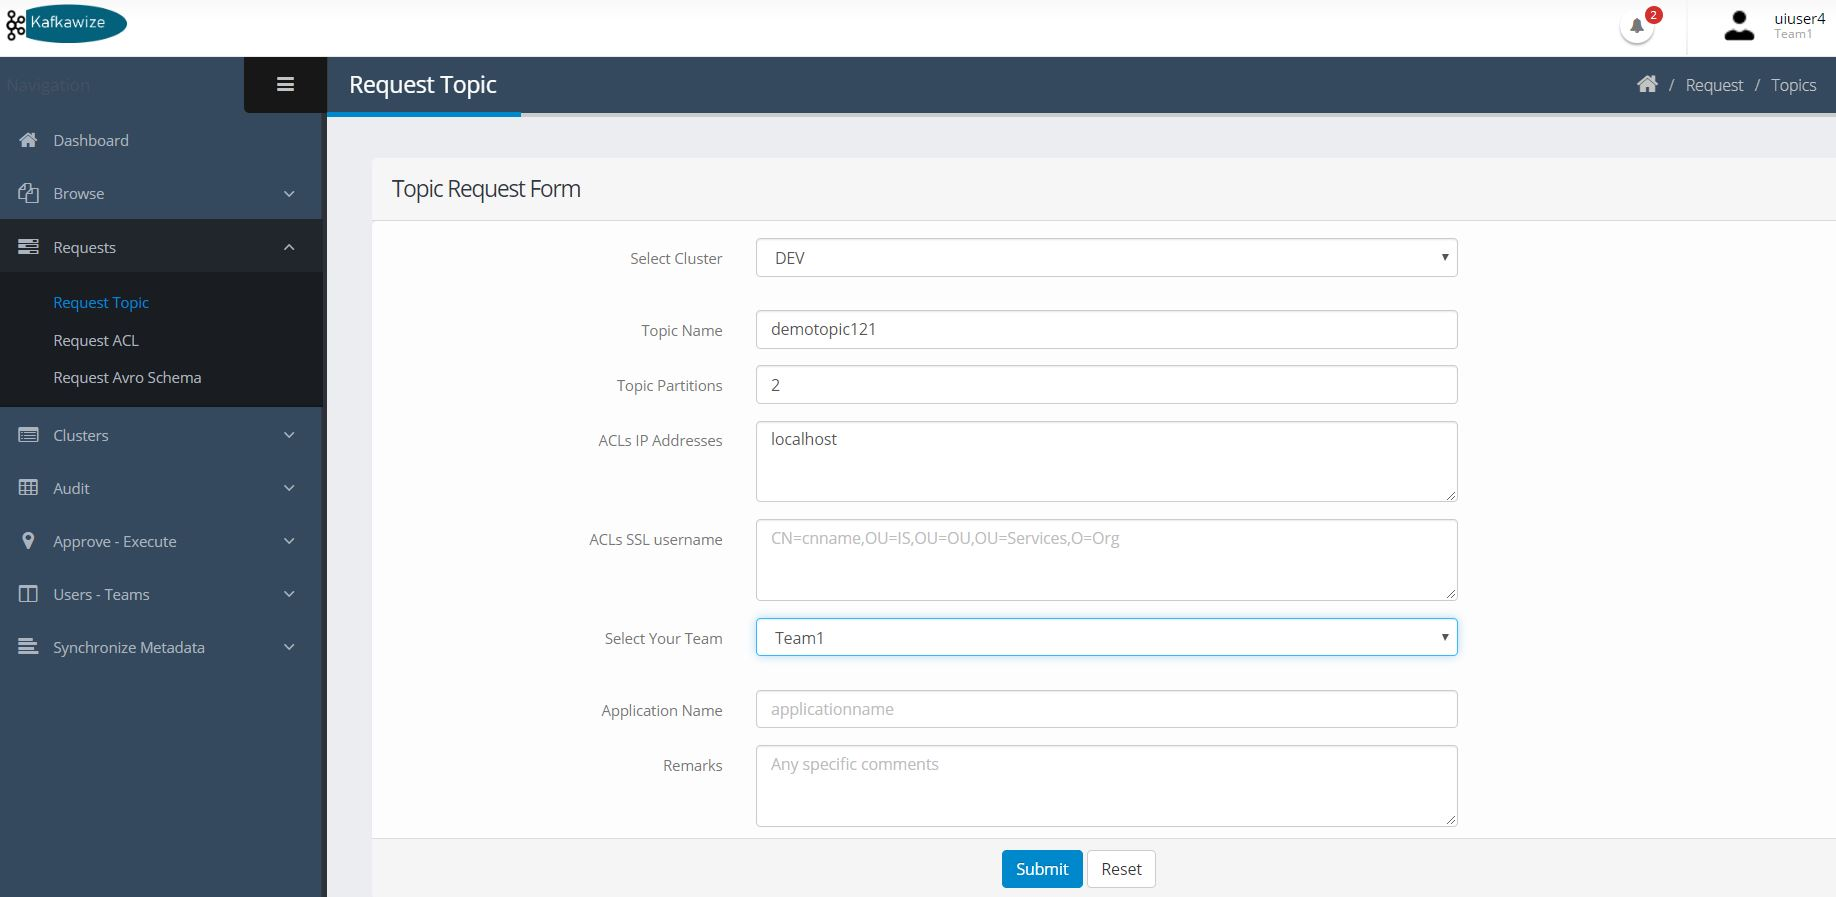
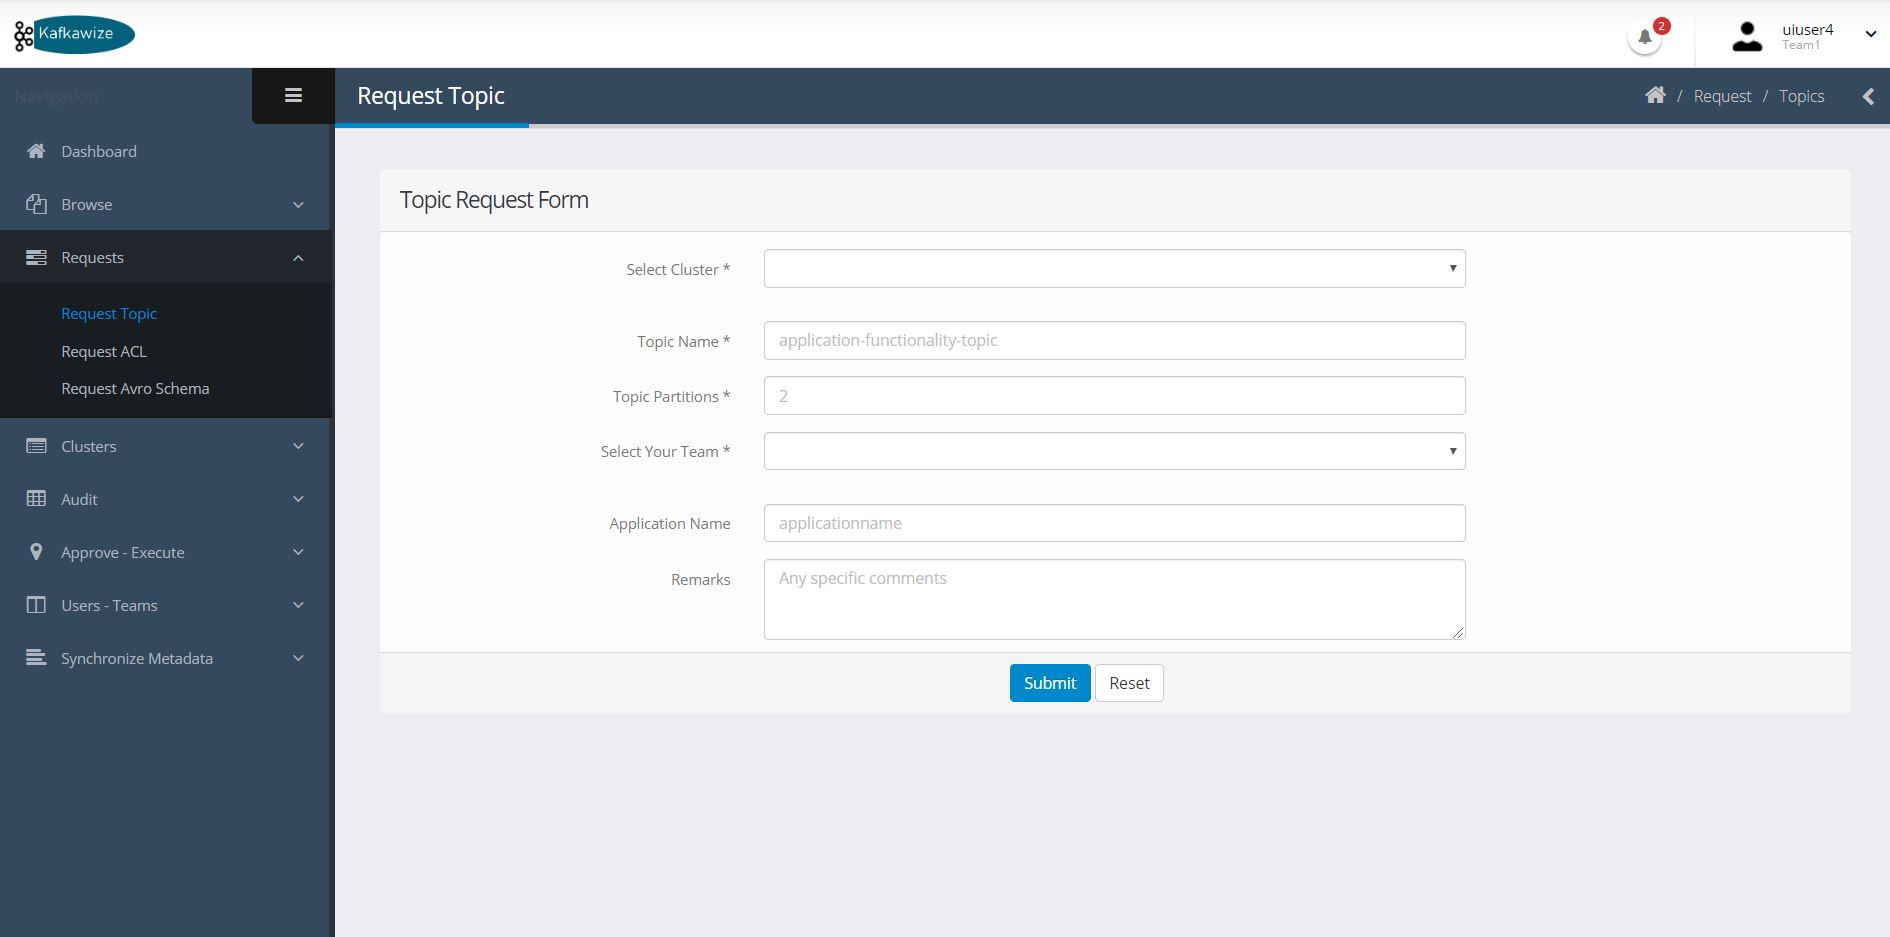
Bug fixes, request topic form, code enhancements

diff --git a/kafkawize-web/src/main/resources/templates/requestTopics.html b/kafkawize-web/src/main/resources/templates/requestTopics.html
@@ -376,7 +376,7 @@
 							<div class="panel-body" ng-init="getAuth();getEnvs();loadTeams();">
 
 									<div class="form-group">
-										<label class="col-md-3 control-label">Select Cluster</label>
+										<label class="col-md-3 control-label">Select Cluster *</label>
 										<div class="col-md-6">
 											<select class="form-control mb-md" ng-model="addTopic.envName" ng-options="env as env.name for env in allenvs">
 
@@ -386,35 +386,35 @@
 
 
 								<div class="form-group">
-									<label class="col-md-3 control-label">Topic Name</label>
+									<label class="col-md-3 control-label">Topic Name *</label>
 									<div class="col-md-6">
 										<input ng-model="addTopic.topicname" required type="text" placeholder="application-functionality-topic" title="" data-toggle="tooltip" data-trigger="hover" class="form-control" data-original-title="Enter the topic name">
 									</div>
 								</div>
 
 								<div class="form-group">
-									<label class="col-md-3 control-label">Topic Partitions</label>
+									<label class="col-md-3 control-label">Topic Partitions *</label>
 									<div class="col-md-6">
 										<input ng-model="addTopic.topicpartitions" required type="text" placeholder="2" title="" data-toggle="tooltip" data-trigger="hover" class="form-control" data-original-title="Enter a number for topic partitions">
 									</div>
 								</div>
 
-								<div class="form-group">
-									<label class="col-md-3 control-label">ACLs IP Addresses (Producer)</label>
-									<div class="col-md-6">
-										<textarea placeholder="192.168.12.104" title="" data-toggle="tooltip" data-trigger="hover" class="form-control" data-original-title="Enter the IP Addresses of Producers" ng-model="addTopic.acl_ip" rows="3"></textarea>
-									</div>
-								</div>
+								<!--<div class="form-group">-->
+									<!--<label class="col-md-3 control-label">ACLs IP Addresses (Producer)</label>-->
+									<!--<div class="col-md-6">-->
+										<!--<textarea placeholder="192.168.12.104" title="" data-toggle="tooltip" data-trigger="hover" class="form-control" data-original-title="Enter the IP Addresses of Producers" ng-model="addTopic.acl_ip" rows="3"></textarea>-->
+									<!--</div>-->
+								<!--</div>-->
+
+								<!--<div class="form-group">-->
+									<!--<label class="col-md-3 control-label">ACLs Ssl DN (Producer)</label>-->
+									<!--<div class="col-md-6">-->
+										<!--<textarea placeholder="CN=cnname,OU=IS,OU=OU,OU=Services,O=Org" title="" data-toggle="tooltip" data-trigger="hover" class="form-control" data-original-title="Enter the Ssl-CN certificate entry" ng-model="addTopic.acl_ssl" rows="3"></textarea>-->
+									<!--</div>-->
+								<!--</div>-->
 
 								<div class="form-group">
-									<label class="col-md-3 control-label">ACLs SSL username</label>
-									<div class="col-md-6">
-										<textarea placeholder="CN=cnname,OU=IS,OU=OU,OU=Services,O=Org" title="" data-toggle="tooltip" data-trigger="hover" class="form-control" data-original-title="Enter the Ssl-CN certificate entry" ng-model="addTopic.acl_ssl" rows="3"></textarea>
-									</div>
-								</div>
-
-								<div class="form-group">
-									<label class="col-md-3 control-label">Select Your Team</label>
+									<label class="col-md-3 control-label">Select Your Team *</label>
 									<div class="col-md-6">
 										<select class="form-control mb-md" ng-model="addTopic.team" ng-options="team as team.teamname for team in allTeams">
 
@@ -425,7 +425,7 @@
 								<div class="form-group">
 									<label class="col-md-3 control-label">Application Name</label>
 									<div class="col-md-6">
-										<input ng-model="addTopic.app" required type="text" placeholder="applicationname" title="" data-toggle="tooltip" data-trigger="hover" class="form-control" data-original-title="Enter application name">
+										<input ng-model="addTopic.app" type="text" placeholder="applicationname" title="" data-toggle="tooltip" data-trigger="hover" class="form-control" data-original-title="Enter application name">
 									</div>
 								</div>
 

diff --git a/kafkawize-web/src/main/resources/static/js/requestTopics.js b/kafkawize-web/src/main/resources/static/js/requestTopics.js
@@ -24,13 +24,19 @@ app.controller("requestTopicsCtrl", function($scope, $http, $location, $window) 
                 alert("Please fill in topic partitions");
                 return;
             }
-            if(($scope.addTopic.acl_ip !=null && $scope.addTopic.acl_ip.length>0) ||
-             ($scope.addTopic.acl_ssl !=null && $scope.addTopic.acl_ssl.length>0)){}
-             else
-             {
-                alert("Please fill in a valid IP address or SSL-CN Name of the Producer client");
+
+            if(isNaN($scope.addTopic.topicpartitions)){
+                alert("Please fill in a valid number for partitions for topic");
                 return;
-             }
+            }
+
+//            if(($scope.addTopic.acl_ip !=null && $scope.addTopic.acl_ip.length>0) ||
+//             ($scope.addTopic.acl_ssl !=null && $scope.addTopic.acl_ssl.length>0)){}
+//             else
+//             {
+//                alert("Please fill in a valid IP address or SSL-CN Name of the Producer client");
+//                return;
+//             }
 
              if(!$scope.addTopic.team)
               {
@@ -44,16 +50,13 @@ app.controller("requestTopicsCtrl", function($scope, $http, $location, $window) 
             serviceInput['teamname'] = $scope.addTopic.team.teamname;
             serviceInput['appname'] = $scope.addTopic.app;
             serviceInput['remarks'] = $scope.addTopic.remarks;
-            serviceInput['acl_ip'] = $scope.addTopic.acl_ip;
-            serviceInput['acl_ssl'] = $scope.addTopic.acl_ssl;
 
-            if (!window.confirm("Are you sure, you would like to request the topic : "
-                +  $scope.addTopic.topicname  +
+            if (!window.confirm("Are you sure, you would like to request a topic ?"+
+                "\nTopic : " +  $scope.addTopic.topicname  +
                 "\nPartitions : " + $scope.addTopic.topicpartitions +
                 "\nEnv : " + $scope.addTopic.envName.name +
-                "\nTeam :" + $scope.addTopic.team.teamname +
-                "\nApp :" + $scope.addTopic.app +
-                "\nAcl :" + $scope.addTopic.acl_ip +" \nAcl SSL:"+ $scope.addTopic.acl_ssl
+                "\nTeam : " + $scope.addTopic.team.teamname +
+                "\nApp : " + $scope.addTopic.app
                 )) {
                 return;
             }
@@ -75,6 +78,7 @@ app.controller("requestTopicsCtrl", function($scope, $http, $location, $window) 
             );
 
         };
+
 
         $scope.getEnvs = function() {
 

diff --git a/kafkawize-web/src/main/resources/templates/execTopics.html b/kafkawize-web/src/main/resources/templates/execTopics.html
@@ -376,8 +376,8 @@
 											<th>Replication Factor</th>
 											<th>Cluster</th>
 											<th>Requestor</th>
-											<th>Acl IP(Producer)</th>
-											<th>Acl SSL</th>
+											<!--<th>Acl IP(Producer)</th>-->
+											<!--<th>Acl SSL</th>-->
 											<!--<th>Application</th>-->
 											<th>Team</th>
 											<!--<th>Remarks</th>-->
@@ -394,8 +394,8 @@
 											<td>{{ topicRequest.replicationfactor }}</td>
 											<td>{{ topicRequest.environment }}</td>
 											<td>{{ topicRequest.username }}</td>
-											<td>{{ topicRequest.acl_ip }}</td>
-											<td>{{ topicRequest.acl_ssl }}</td>
+											<!--<td>{{ topicRequest.acl_ip }}</td>-->
+											<!--<td>{{ topicRequest.acl_ssl }}</td>-->
 											<!--<td>{{ topicRequest.appname }}</td>-->
 											<td>{{ topicRequest.teamname }}</td>
 											<!--<td>{{ topicRequest.remarks }}</td>-->

diff --git a/kafkawize-web/src/main/resources/templates/requestAcls.html b/kafkawize-web/src/main/resources/templates/requestAcls.html
@@ -410,7 +410,7 @@
 								</div>
 
 								<div class="form-group">
-									<label class="col-md-3 control-label">Consumer Group</label>
+									<label class="col-md-3 control-label">Consumer Group (Only for consumers)</label>
 									<div class="col-md-6">
 										<input ng-model="addAcl.consumergroup" type="text" placeholder="applicationconsumergroup" title="" data-toggle="tooltip" data-trigger="hover" class="form-control" data-original-title="Required if ACL type is Consumer">
 									</div>

diff --git a/kafkawize-web/src/main/resources/templates/pcTopics.html b/kafkawize-web/src/main/resources/templates/pcTopics.html
@@ -389,7 +389,7 @@
 									<thead>
 										<tr>
 											<th>Topic</th>
-											<th>Producer Teams</th>
+											<th>Producer/Owner Teams</th>
 											<th>Consumer Teams</th>
 										</tr>
 									</thead>

diff --git a/kafkawize-web/src/main/java/com/kafkamgt/uiapi/service/TopicControllerService.java b/kafkawize-web/src/main/java/com/kafkamgt/uiapi/service/TopicControllerService.java
@@ -41,7 +41,7 @@ public class TopicControllerService {
     String uriGetTopics = "/topics/getTopics/";
 
     @Autowired
-    private ManageTopics createTopicHelper;
+    private ManageTopics manageTopics;
 
     @Autowired
     private UtilService utilService;
@@ -60,6 +60,21 @@ public class TopicControllerService {
         String defPartns = springEnvProps.getProperty("kafka." + envSelected + ".default.partitions");
         String defMaxPartns = springEnvProps.getProperty("kafka." + envSelected + ".default.maxpartitions");
         String defaultRf = springEnvProps.getProperty("kafka." + envSelected + ".default.replicationfactor");
+//        String ipAddress = topicRequestReq.getAcl_ip();
+//
+//        if(ipAddress!=null && ipAddress.length()>0) {
+//            String IPADDRESS_PATTERN =
+//                    "^([01]?\\d\\d?|2[0-4]\\d|25[0-5])\\." +
+//                            "([01]?\\d\\d?|2[0-4]\\d|25[0-5])\\." +
+//                            "([01]?\\d\\d?|2[0-4]\\d|25[0-5])\\." +
+//                            "([01]?\\d\\d?|2[0-4]\\d|25[0-5])$";
+//
+//            Pattern pattern = Pattern.compile(IPADDRESS_PATTERN);
+//            Matcher matcher = pattern.matcher(ipAddress);
+//            if (!matcher.matches()) {
+//                return "{\"result\":\"Error : Invalid IP Address in the request.\"}";
+//            }
+//        }
 
         if(defPartns==null)
             defPartns="1";
@@ -87,7 +102,7 @@ public class TopicControllerService {
             topicRequestReq.setTopicpartitions(defPartns);
         }
 
-        String execRes = createTopicHelper.requestForTopic(topicRequestReq);
+        String execRes = manageTopics.requestForTopic(topicRequestReq);
 
         String topicaddResult = "{\"result\":\""+execRes+"\"}";
         return topicaddResult;
@@ -124,13 +139,13 @@ public class TopicControllerService {
                 listTopics.add(t);
             }
         }
-        String execRes = createTopicHelper.addToSynctopics(listTopics);
+        String execRes = manageTopics.addToSynctopics(listTopics);
 
         return "{\"result\":\""+execRes+"\"}";
     }
 
     public List<PCStream> getTopicStreams(String envSelected, String pageNo, String topicNameSearch) {
-        List<PCStream> pcList = createTopicHelper.selectTopicStreams(envSelected);
+        List<PCStream> pcList = manageTopics.selectTopicStreams(envSelected);
 
         if(topicNameSearch != null)
             topicNameSearch = topicNameSearch.trim();
@@ -177,16 +192,16 @@ public class TopicControllerService {
 
     public List<TopicRequest> getTopicRequests() {
 
-        return createTopicHelper.getAllTopicRequests(utilService.getUserName());
+        return manageTopics.getAllTopicRequests(utilService.getUserName());
     }
 
     public Topic getTopicTeam(String topicName, String env) {
 
-        return createTopicHelper.getTopicTeam(topicName, env);
+        return manageTopics.getTopicTeam(topicName, env);
     }
 
     public List<TopicRequest> getCreatedTopicRequests() {
-       return createTopicHelper.getCreatedTopicRequests(utilService.getUserName());
+       return manageTopics.getCreatedTopicRequests(utilService.getUserName());
     }
 
     public String deleteTopicRequests(String topicName) {
@@ -195,7 +210,7 @@ public class TopicControllerService {
         topicName = strTkr.nextToken();
         String env = strTkr.nextToken();
 
-        String deleteTopicReqStatus = createTopicHelper.deleteTopicRequest(topicName,env);
+        String deleteTopicReqStatus = manageTopics.deleteTopicRequest(topicName,env);
 
         return "{\"result\":\""+deleteTopicReqStatus+"\"}";
     }
@@ -206,21 +221,21 @@ public class TopicControllerService {
         topicName = strTkr.nextToken();
         String env = strTkr.nextToken();
 
-        TopicRequest topicRequest = createTopicHelper.selectTopicRequestsForTopic(topicName, env);
+        TopicRequest topicRequest = manageTopics.selectTopicRequestsForTopic(topicName, env);
 
         ResponseEntity<String> response = clusterApiService.approveTopicRequests(topicName,topicRequest);
 
         String updateTopicReqStatus = response.getBody();
 
         if(response.getBody().equals("success"))
-            updateTopicReqStatus = createTopicHelper.updateTopicRequest(topicRequest,utilService.getUserName());
+            updateTopicReqStatus = manageTopics.updateTopicRequest(topicRequest,utilService.getUserName());
 
         return "{\"result\":\""+updateTopicReqStatus+"\"}";
     }
 
     public List<String> getAllTopics(String env) throws Exception {
 
-        Env envSelected = createTopicHelper.selectEnvDetails(env);
+        Env envSelected = manageTopics.selectEnvDetails(env);
         String bootstrapHost = envSelected.getHost() + ":" + envSelected.getPort();
 
         List<String> topicsList = clusterApiService.getAllTopics(bootstrapHost);
@@ -233,7 +248,14 @@ public class TopicControllerService {
             if(indexOfDots>0)
                 topicsListNew.add(s1.substring(0,indexOfDots));
         }
-        return topicsListNew;
+
+        List<Topic> topicsMetadata = manageTopics.getSyncTopics(env);
+
+        topicsMetadata.forEach(topic->topicsListNew.add(topic.getTopicname()));
+
+        List<String> uniqueList = topicsListNew.stream().distinct().sorted().collect(Collectors.toList());
+
+        return uniqueList;
     }
 
     public List<TopicInfo> getTopics(String env, String pageNo, String topicNameSearch) throws Exception {
@@ -241,13 +263,13 @@ public class TopicControllerService {
         if(topicNameSearch != null)
             topicNameSearch = topicNameSearch.trim();
 
-        Env envSelected= createTopicHelper.selectEnvDetails(env);
+        Env envSelected= manageTopics.selectEnvDetails(env);
         String bootstrapHost=envSelected.getHost()+":"+envSelected.getPort();
 
         List<String> topicsList = clusterApiService.getAllTopics(bootstrapHost);
 
         // Get Sync topics
-        List<Topic> topicsFromSOT = createTopicHelper.getSyncTopics(env);
+        List<Topic> topicsFromSOT = manageTopics.getSyncTopics(env);
 
         topicCounter = 0;
 
@@ -277,7 +299,7 @@ public class TopicControllerService {
         if(topicNameSearch != null)
             topicNameSearch = topicNameSearch.trim();
 
-        Env envSelected= createTopicHelper.selectEnvDetails(env);
+        Env envSelected= manageTopics.selectEnvDetails(env);
         String bootstrapHost=envSelected.getHost()+":"+envSelected.getPort();
 
         List<String> topicsList = clusterApiService.getAllTopics(bootstrapHost);
@@ -376,7 +398,7 @@ public class TopicControllerService {
         int requestPageNo = Integer.parseInt(pageNo);
 
         // Get Sync topics
-        List<Topic> topicsFromSOT = createTopicHelper.getSyncTopics(env);
+        List<Topic> topicsFromSOT = manageTopics.getSyncTopics(env);
 
         List<TopicRequest> topicsListMap = new ArrayList<>();
         int startVar = (requestPageNo-1) * recsPerPage;
@@ -386,7 +408,7 @@ public class TopicControllerService {
 
         List<String> teamList = new ArrayList<>();
 
-        createTopicHelper.selectAllTeamsOfUsers(userDetails.getUsername())
+        manageTopics.selectAllTeamsOfUsers(userDetails.getUsername())
                 .forEach(teamS->teamList.add(teamS.getTeamname()));
         //String tmpTopicName = null;
         for(int i=0;i<totalRecs;i++){

diff --git a/kafkawize-web/src/main/java/com/kafkamgt/uiapi/helpers/db/cassandra/InsertData.java b/kafkawize-web/src/main/java/com/kafkamgt/uiapi/helpers/db/cassandra/InsertData.java
@@ -46,12 +46,12 @@ public class InsertData {
             tableName = "topic_requests";
             topicReqType = "Producer";
             insertstat = "INSERT INTO " + keyspace + "."+tableName+"(topicname,partitions,replicationfactor,env,teamname,appname,topictype,requestor," +
-                    "requesttime, acl_ip, acl_ssl, remarks, topicstatus) " +
-                    "VALUES (?,?,?,?,?,?,?,?,?,?,?,?,?);";
+                    "requesttime,  remarks, topicstatus) " +
+                    "VALUES (?,?,?,?,?,?,?,?,?,?,?);";
             PreparedStatement statement = session.prepare(insertstat);
             BoundStatement boundStatement = new BoundStatement(statement);
             session.execute(boundStatement.bind(topicRequest.getTopicname(), topicRequest.getTopicpartitions(), topicRequest.getReplicationfactor(), topicRequest.getEnvironment(), topicRequest.getTeamname(), topicRequest.getAppname(),
-                    topicReqType, topicRequest.getUsername(), new Date(), topicRequest.getAcl_ip(), topicRequest.getAcl_ssl(), topicRequest.getRemarks(), "created"));
+                    topicReqType, topicRequest.getUsername(), new Date(), topicRequest.getRemarks(), "created"));
 
             // Activity log
         insertIntoActivityLogTopic(topicRequest);

diff --git a/kafkawize-web/src/main/java/com/kafkamgt/uiapi/service/ClusterApiService.java b/kafkawize-web/src/main/java/com/kafkamgt/uiapi/service/ClusterApiService.java
@@ -103,8 +103,8 @@ public class ClusterApiService {
             params.add("topicName", topicName);
             params.add("partitions", topicRequest.getTopicpartitions());
             params.add("rf", topicRequest.getReplicationfactor());
-            params.add("acl_ip", topicRequest.getAcl_ip());
-            params.add("acl_ssl", topicRequest.getAcl_ssl());
+//            params.add("acl_ip", topicRequest.getAcl_ip());
+//            params.add("acl_ssl", topicRequest.getAcl_ssl());
 
             HttpHeaders headers = new HttpHeaders();//createHeaders("user1", "pwd");
             headers.setContentType(MediaType.APPLICATION_FORM_URLENCODED);

diff --git a/README.md b/README.md
@@ -4,7 +4,7 @@ Or
 
 Pdf : https://buildmedia.readthedocs.org/media/pdf/kafkawize/latest/kafkawize.pdf
 
-Download options : https://kafkawize.readthedocs.io/en/latest/getting_started.html#download-kafkawize-3-1
+Download options : https://kafkawize.readthedocs.io/en/latest/getting_started.html#download-kafkawize
 
 
 <b>Screenshots</b>
